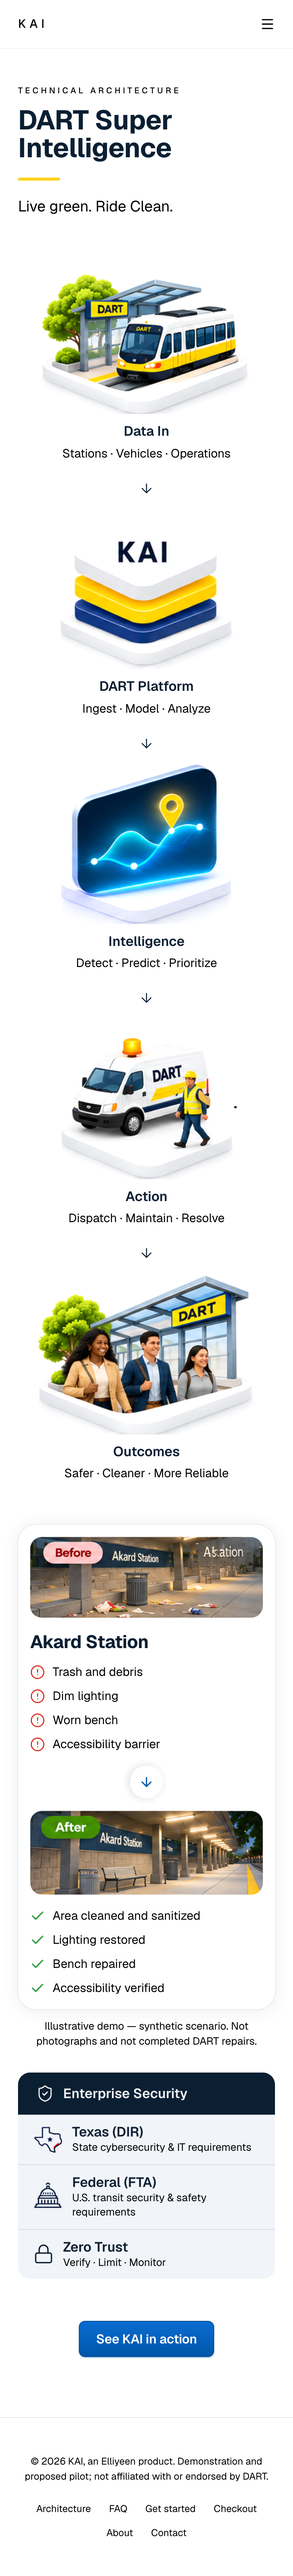
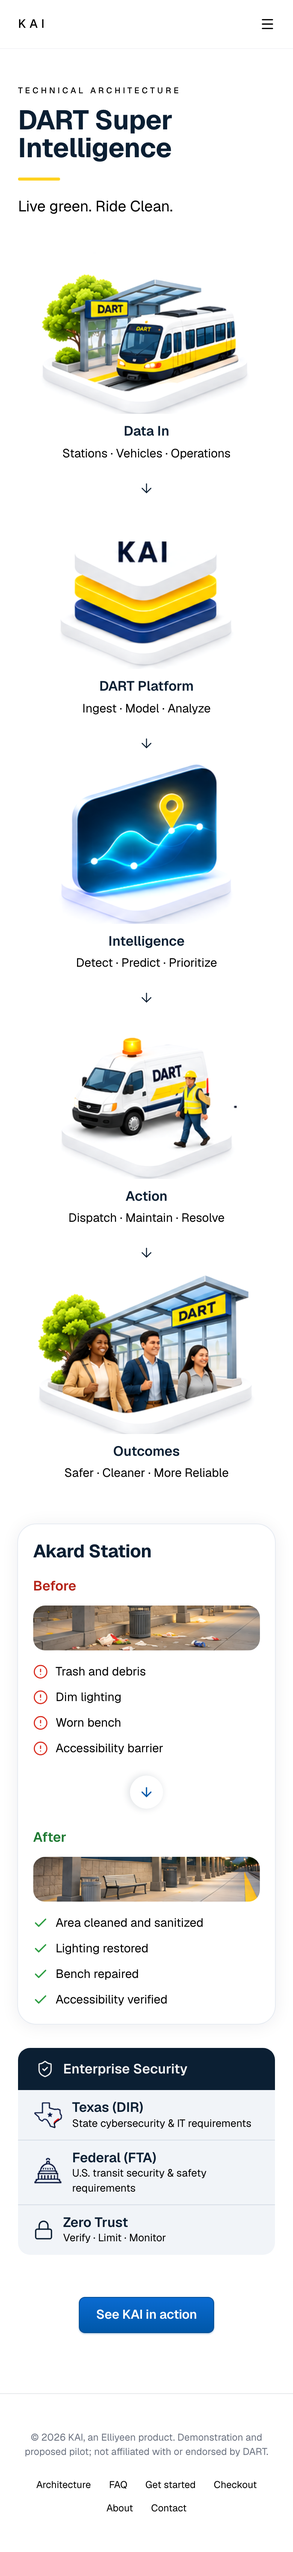
Architecture: plain Before/After labels above lists, equal aligned scenes, no pills or garbled sign (#56)

diff --git a/src/components/landing/ArchitectureMap.tsx b/src/components/landing/ArchitectureMap.tsx
@@ -46,22 +46,28 @@ export default function ArchitectureMap() {
       </ol>
 
       <section aria-labelledby="akard-title" className="mt-10" data-testid="arch-akard">
-        <div className="flex flex-col lg:flex-row lg:items-stretch gap-4 lg:gap-0 rounded-3xl bg-white shadow-[0_2px_24px_rgba(11,31,51,0.08)] ring-1 ring-[#E6EBF2] p-4 lg:p-5">
-          <div className="flex-1 grid gap-4 sm:grid-cols-[minmax(0,1.15fr)_minmax(0,1fr)] items-center">
-            <figure className="rounded-2xl overflow-hidden"><img src={`${basePath}/images/architecture/akard-before.png`} alt="Before: Akard Station platform with trash and debris, dim lighting, a worn bench and an accessibility barrier (illustrative)" width={423} height={148} loading="lazy" decoding="async" className="w-full h-auto block" /></figure>
-            <div>
-              <h2 id="akard-title" style={{ fontWeight: 700 }} className="text-2xl text-[#0B1F33]">Akard Station</h2>
-              <ul className="mt-3 space-y-2" data-testid="arch-before">
-                {BEFORE.map((t) => <li key={t} className="flex items-center gap-2.5 text-base text-black"><CircleAlert className="w-5 h-5 shrink-0 text-[#D92D20]" strokeWidth={1.8} aria-hidden="true" />{t}</li>)}
-              </ul>
+        <div className="rounded-3xl bg-white shadow-[0_2px_24px_rgba(11,31,51,0.08)] ring-1 ring-[#E6EBF2] p-5 lg:p-6">
+          <h2 id="akard-title" style={{ fontWeight: 700 }} className="text-2xl text-[#0B1F33]">Akard Station</h2>
+          <div className="mt-4 grid gap-6 lg:grid-cols-[1fr_auto_1fr] lg:items-start">
+            <div data-testid="arch-before-col">
+              <p className="text-lg font-semibold text-[#B42318]">Before</p>
+              <div className="mt-3 grid gap-4 sm:grid-cols-[minmax(0,1.3fr)_minmax(0,1fr)] sm:items-center">
+                <img src={`${basePath}/images/architecture/akard-before.png`} alt="Before: Akard Station platform with trash and debris, dim lighting, a worn bench and an accessibility barrier (illustrative)" width={412} height={82} loading="lazy" decoding="async" className="w-full h-auto block rounded-2xl" />
+                <ul className="space-y-2.5" data-testid="arch-before">
+                  {BEFORE.map((t) => <li key={t} className="flex items-center gap-2.5 text-base leading-6 text-black"><CircleAlert className="w-5 h-5 shrink-0 text-[#D92D20]" strokeWidth={1.8} aria-hidden="true" />{t}</li>)}
+                </ul>
+              </div>
             </div>
-          </div>
-          <span aria-hidden="true" className="self-center mx-3 grid place-items-center w-11 h-11 rounded-full bg-white shadow-[0_2px_10px_rgba(11,31,51,0.15)] text-[#0057A8] rotate-90 lg:rotate-0"><ArrowRight className="w-5 h-5" strokeWidth={2} /></span>
-          <div className="flex-1 grid gap-4 sm:grid-cols-[minmax(0,1.15fr)_minmax(0,1fr)] items-center">
-            <figure className="rounded-2xl overflow-hidden"><img src={`${basePath}/images/architecture/akard-after.png`} alt="After: Akard Station platform cleaned, lighting restored, bench repaired and accessibility verified (illustrative)" width={412} height={148} loading="lazy" decoding="async" className="w-full h-auto block" /></figure>
-            <ul className="space-y-2" data-testid="arch-after">
-              {AFTER.map((t) => <li key={t} className="flex items-center gap-2.5 text-base text-black"><Check className="w-5 h-5 shrink-0 text-[#2E9E43]" strokeWidth={2.2} aria-hidden="true" />{t}</li>)}
-            </ul>
+            <span aria-hidden="true" className="self-center justify-self-center grid place-items-center w-11 h-11 rounded-full bg-white shadow-[0_2px_10px_rgba(11,31,51,0.15)] text-[#0057A8] rotate-90 lg:rotate-0"><ArrowRight className="w-5 h-5" strokeWidth={2} /></span>
+            <div data-testid="arch-after-col">
+              <p className="text-lg font-semibold text-[#1E7A32]">After</p>
+              <div className="mt-3 grid gap-4 sm:grid-cols-[minmax(0,1.3fr)_minmax(0,1fr)] sm:items-center">
+                <img src={`${basePath}/images/architecture/akard-after.png`} alt="After: Akard Station platform cleaned, lighting restored, bench repaired and accessibility verified (illustrative)" width={412} height={82} loading="lazy" decoding="async" className="w-full h-auto block rounded-2xl" />
+                <ul className="space-y-2.5" data-testid="arch-after">
+                  {AFTER.map((t) => <li key={t} className="flex items-center gap-2.5 text-base leading-6 text-black"><Check className="w-5 h-5 shrink-0 text-[#2E9E43]" strokeWidth={2.2} aria-hidden="true" />{t}</li>)}
+                </ul>
+              </div>
+            </div>
           </div>
         </div>
       </section>

diff --git a/tests/e2e/pages.spec.ts b/tests/e2e/pages.spec.ts
@@ -72,6 +72,8 @@ test("Architecture page matches approved mockup: five stages, Akard before/after
   await expect(page.getByTestId("arch-flow")).not.toContainText(/^\s*[1-5]\s/);
   // Akard before/after, no Park Lane
   await expect(page.getByRole("heading", { name: "Akard Station" })).toBeVisible();
+  await expect(page.getByTestId("arch-before-col").getByText("Before", { exact: true })).toBeVisible();
+  await expect(page.getByTestId("arch-after-col").getByText("After", { exact: true })).toBeVisible();
   await expect(page.getByTestId("arch-before").locator("li")).toHaveCount(4);
   await expect(page.getByTestId("arch-after").locator("li")).toHaveCount(4);
   await expect(page.locator("body")).not.toContainText("Illustrative demo");
